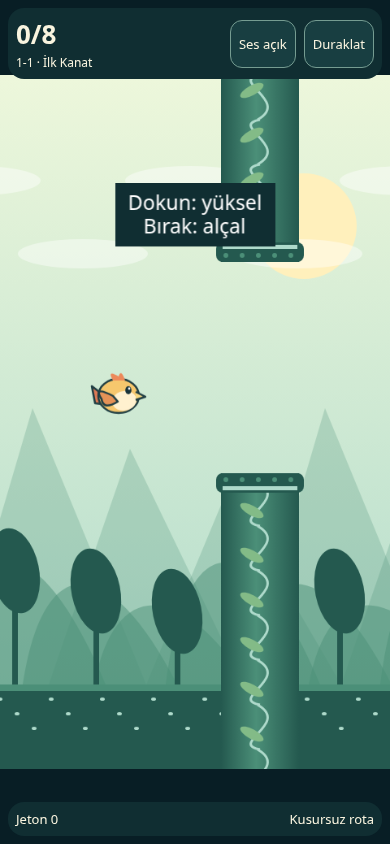
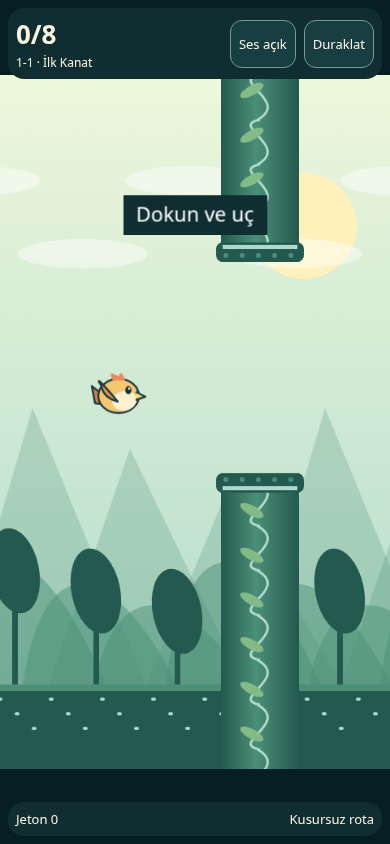
Polish Flappy Evolution interface and Phaser animations

Changed region(s): [[0.2769, 0.2156, 0.7077, 0.3081], [0.2462, 0.4313, 0.3077, 0.4929]]

diff --git a/flappy-evolution/src/game/scenes/PlayScene.ts b/flappy-evolution/src/game/scenes/PlayScene.ts
@@ -85,6 +85,8 @@ export class PlayScene extends Phaser.Scene {
     this.windTick = 6000;
     this.windRemaining = 0;
     this.lastHud = "";
+    this.trailMs = 0;
+    this.badge = undefined;
     this.director.reset();
     this.difficulty = this.profile(0);
     this.obstacles = new ObstacleSystem(this, this.level);
@@ -105,7 +107,7 @@ export class PlayScene extends Phaser.Scene {
         .setDepth(24);
     }
     this.status = this.add
-      .text(240, 172, "Dokun: yüksel\nBırak: alçal", {
+      .text(240, 172, "Dokun ve uç", {
         fontFamily: "system-ui",
         fontSize: "25px",
         color: "#ffffff",
@@ -214,6 +216,7 @@ export class PlayScene extends Phaser.Scene {
       this.bird.setGameplayGravity(true);
     } else if (this.phase !== "playing") return;
     this.bird.flap();
+    this.flapRipple();
     this.flapCount++;
     this.audioSystem.resume();
     this.audioSystem.flap();
@@ -231,9 +234,10 @@ export class PlayScene extends Phaser.Scene {
           this.phase = this.resumedPhase;
           this.physics.world.resume();
           this.tweens.resumeAll();
+          this.bird.anims.resume();
           this.status.setVisible(this.phase === "ready");
           if (this.phase === "ready")
-            this.status.setText("Dokun: yüksel\nBırak: alçal");
+            this.status.setText("Dokun ve uç");
           this.lastHud = "";
           this.refreshHud();
         }
@@ -284,6 +288,7 @@ export class PlayScene extends Phaser.Scene {
         ) {
           this.pickupCoins++;
           this.audioSystem.coin();
+          this.burst(p.coin.x, p.coin.y, 0xf4ca75, 8);
           p.coin.destroy();
           p.coin = undefined;
         }
@@ -293,6 +298,7 @@ export class PlayScene extends Phaser.Scene {
         this.passedGates++;
         this.score++;
         this.audioSystem.score();
+        this.burst(this.bird.x + 32, this.bird.y, 0xb9e6cf, 4);
         const distance = Math.abs(this.bird.y - p.currentCenter);
         if (distance > 40) this.allPassesCentered = false;
         if (p.currentGap * 0.5 - distance < 18) {
@@ -364,6 +370,31 @@ export class PlayScene extends Phaser.Scene {
       onComplete: () => p.destroy(),
     });
   }
+  // Effects use separate objects: Bird scale, origin and hitbox stay unchanged.
+  private flapRipple(): void {
+    if (this.reducedMotion()) return;
+    const ring = this.add.circle(this.bird.x - 12, this.bird.y + 10, 9)
+      .setStrokeStyle(2, 0xf9f4df, 0.65).setDepth(19);
+    this.tweens.add({
+      targets: ring, x: ring.x - 22, scale: 2.8, alpha: 0,
+      duration: 240, ease: "Sine.Out", onComplete: () => ring.destroy(),
+    });
+  }
+  private burst(x: number, y: number, color: number, count: number): void {
+    if (this.reducedMotion()) return;
+    for (let i = 0; i < count; i++) {
+      const angle = (i / count) * Math.PI * 2;
+      const radius = 22 + (i % 3) * 9;
+      const mote = this.add.circle(x, y, i % 2 ? 2 : 3, color).setDepth(35);
+      this.tweens.add({
+        targets: mote,
+        x: x + Math.cos(angle) * radius,
+        y: y + Math.sin(angle) * radius,
+        alpha: 0, scale: 0.25, duration: 380, ease: "Cubic.Out",
+        onComplete: () => mote.destroy(),
+      });
+    }
+  }
   private drawDebug(): void {
     this.debug.clear();
     if (!new URLSearchParams(location.search).has("debug")) return;
@@ -384,12 +415,13 @@ export class PlayScene extends Phaser.Scene {
     this.phase = "paused";
     this.physics.world.pause();
     this.tweens.pauseAll();
+    this.bird.anims.pause();
     this.audioSystem.stop();
     this.showPause();
   }
   private showPause(): void {
     panel(
-      `<p class="eyebrow">Bir nefes al</p><h1>Uçuş duraklatıldı</h1><p>Zaman ve rüzgâr seni bekliyor.</p>${button("resume", "Devam et", true)}${button("menu", "Menüye dön")}`,
+      `<h1>Duraklatıldı</h1>${button("resume", "Devam et", true)}${button("menu", "Menüye dön")}`,
       (a) => {
         if (a === "resume") {
           this.countdown = 3000;
@@ -406,6 +438,10 @@ export class PlayScene extends Phaser.Scene {
     this.phase = outcome;
     this.physics.world.pause();
     this.bird.kill();
+    if (!this.reducedMotion()) {
+      this.burst(this.bird.x, this.bird.y, outcome === "won" ? 0xf4ca75 : 0xf9f4df, 12);
+      if (outcome === "dead") this.cameras.main.shake(140, 0.004);
+    }
     this.windLabel.setVisible(false);
     this.audioSystem.stop();
     outcome === "won" ? this.audioSystem.unlock() : this.audioSystem.hit();
@@ -426,7 +462,7 @@ export class PlayScene extends Phaser.Scene {
     releaseRunLock(this.lockToken);
     this.phase = "results";
     panel(
-      `<p class="eyebrow">${this.level ? `${this.level.id} · ${this.level.name}` : "Sonsuz Uçuş"}</p><h1>${outcome === "won" ? "Kanatların güçlendi!" : "Bir uçuş daha?"}</h1><div class="stars" aria-label="${reward.stars} yıldız">${"★".repeat(reward.stars)}${"☆".repeat(3 - reward.stars)}</div><div class="result-stats"><strong>${this.score}<small>skor</small></strong><strong>+${reward.coins}<small>jeton</small></strong><strong>+${reward.xp}<small>XP</small></strong></div><p>${this.passedGates} geçiş · ${this.pickupCoins} fiziksel jeton · ${this.nearMisses} yakın geçiş</p>${this.level ? (outcome === "won" && this.level.id !== "4-5" ? button("next", "Sonraki bölüm", true) : "") : ""}${button("retry", "Tekrar dene", !this.level || outcome === "dead")}${button("menu", "Menüye dön")}<p class="notice">${save.sessionOnly ? "İlerleme bu oturumda saklanıyor" : "İlerleme bu tarayıcıda kaydedildi"}</p>`,
+      `<p class="eyebrow">${this.level ? `${this.level.id} · ${this.level.name}` : "Sonsuz Uçuş"}</p><h1>${outcome === "won" ? "Bölüm tamamlandı" : "Uçuş bitti"}</h1><div class="stars" aria-label="${reward.stars} yıldız">${"★".repeat(reward.stars)}${"☆".repeat(3 - reward.stars)}</div><div class="result-stats"><strong>${this.score}<small>skor</small></strong><strong>+${reward.coins}<small>jeton</small></strong><strong>+${reward.xp}<small>XP</small></strong></div><p>${this.passedGates} geçiş · ${this.pickupCoins} jeton · ${this.nearMisses} yakın geçiş</p>${this.level ? (outcome === "won" && this.level.id !== "4-5" ? button("next", "Sonraki bölüm", true) : "") : ""}${button("retry", "Tekrar dene", !this.level || outcome === "dead")}${button("menu", "Menüye dön")}<p class="notice">${save.sessionOnly ? "İlerleme bu oturumda saklanıyor" : ""}</p>`,
       (a) => {
         if (a === "retry") void startRun(this, this.request);
         else if (a === "next" && this.level) {

diff --git a/flappy-evolution/src/game/scenes/MenuScene.ts b/flappy-evolution/src/game/scenes/MenuScene.ts
@@ -17,7 +17,7 @@ export class MenuScene extends Phaser.Scene {
     });
   }
   private notice(): string {
-    return `<p class="notice" role="status">${save.forwardSchema ? "Bu kayıt daha yeni bir sürüme ait. İlerleme bu oturumda saklanıyor." : save.sessionOnly ? "İlerleme bu oturumda saklanıyor" : "İlerleme yalnız bu cihazda ve tarayıcıda saklanır."}</p>`;
+    return `<p class="notice" role="status">${save.forwardSchema ? "Bu kayıt daha yeni bir sürüme ait. İlerleme bu oturumda saklanıyor." : save.sessionOnly ? "İlerleme bu oturumda saklanıyor" : ""}</p>`;
   }
   public home(): void {
     const stars = Object.values(save.data.adventure.levels).reduce(
@@ -26,7 +26,7 @@ export class MenuScene extends Phaser.Scene {
       ),
       final = (save.data.adventure.levels["4-5"]?.bestStars ?? 0) > 0;
     panel(
-      `<div class="home-top"><span class="wordmark">${icon("wing")} FLAPPY EVOLUTION</span><span class="balance">${icon("coin")}${save.data.wallet.coins}</span></div><div class="hero-art"><div class="orbit orbit-one"></div><div class="orbit orbit-two"></div><img src="/icons/hero.svg" alt="Gökyüzünde kanat açan Kıvılcım" width="280" height="180"><span class="hero-tag">${evolution(save.data.xp)} · ${save.data.xp} XP</span></div><p class="eyebrow">Her uçuş yeni bir başlangıç</p><h1>Küçük kanatlar.<br><em>Büyük dünyalar.</em></h1><p class="intro">Ritmini bul. Ufku aş. Kendi yolunda evril.</p><div class="mode-cards"><button class="mode-card primary" data-action="adventure" aria-label="Macera">${icon("map")}<span><strong>Macera</strong><small>4 dünya · 20 bölüm · ${stars}/60 yıldız</small></span>${icon("arrow")}</button><button class="mode-card" data-action="endless" aria-label="Sonsuz Uçuş">${icon("infinity")}<span><strong>Sonsuz Uçuş</strong><small>Biraz daha ileri · Rekor ${save.data.endless.bestScore}</small></span>${icon("arrow")}</button></div><div class="grid menu-tools">${button("wardrobe", icon("hanger") + " Gardırop")}${button("settings", icon("settings") + " Ayarlar")}</div>${final ? '<p class="final-badge">Evrim Kapısı tamamlandı · Nova rozeti</p>' : ""}${this.notice()}<p id="offline-status" class="notice">İlk açılış için internet gerekir.</p><div id="update-slot"></div>`,
+      `<div class="home-top"><span class="wordmark">${icon("wing")} FLAPPY EVOLUTION</span><span class="balance">${icon("coin")}${save.data.wallet.coins}</span></div><div class="hero-art"><div class="orbit orbit-one"></div><div class="orbit orbit-two"></div><img src="/icons/hero.svg" alt="Gökyüzünde kanat açan Kıvılcım" width="280" height="180"><span class="hero-tag">${evolution(save.data.xp)} · ${save.data.xp} XP</span></div><h1 class="home-title">Uçuşa başla</h1><div class="mode-cards"><button class="mode-card primary" data-action="adventure" aria-label="Macera">${icon("map")}<span><strong>Macera</strong><small>${stars}/60 yıldız</small></span>${icon("arrow")}</button><button class="mode-card" data-action="endless" aria-label="Sonsuz Uçuş">${icon("infinity")}<span><strong>Sonsuz Uçuş</strong><small>Rekor ${save.data.endless.bestScore}</small></span>${icon("arrow")}</button></div><div class="grid menu-tools">${button("wardrobe", icon("hanger") + " Gardırop")}${button("settings", icon("settings") + " Ayarlar")}</div>${final ? '<p class="final-badge">Evrim Kapısı tamamlandı · Nova rozeti</p>' : ""}${this.notice()}<p id="offline-status" class="notice" role="status"></p><div id="update-slot"></div>`,
       (a) => {
         if (a === "adventure") this.scene.start("WorldMapScene");
         else if (a === "endless")
@@ -43,7 +43,7 @@ export class MenuScene extends Phaser.Scene {
   private wardrobe(message = ""): void {
     const inv = save.data.inventory;
     panel(
-      `<p class="eyebrow">${evolution(save.data.xp)} · ${save.data.xp} XP</p><h1>Senin kanatların</h1><p>Tüm görünümler aynı uçuşa ve çarpışma alanına sahip.</p><p role="status">${message}</p><h2>Karakterler</h2><div class="grid">${SKINS.map(
+      `<p class="eyebrow">${evolution(save.data.xp)} · ${save.data.xp} XP</p><h1>Gardırop</h1><p role="status">${message}</p><h2>Karakterler</h2><div class="grid">${SKINS.map(
         (id, i) => {
           const owned = inv.skins.includes(id),
             selected = inv.selectedSkin === id;
@@ -95,7 +95,7 @@ export class MenuScene extends Phaser.Scene {
   }
   private settings(): void {
     panel(
-      `<p class="eyebrow">Uçuş tercihlerin</p><h1>Kendi ritminde</h1><div class="settings-list">${button("sound", save.data.settings.sound ? "Ses: Açık" : "Ses: Kapalı")}<label for="motion">Dekoratif hareket</label><select id="motion"><option value="system" ${save.data.settings.reducedMotion === "system" ? "selected" : ""}>Sistem tercihi</option><option value="on" ${save.data.settings.reducedMotion === "on" ? "selected" : ""}>Azaltılmış</option><option value="off" ${save.data.settings.reducedMotion === "off" ? "selected" : ""}>Tam hareket</option></select><p>Engel hareketleri oyun kuralıdır; değişmez. Dekoratif paralaks ve izler azaltılır.</p>${button("fullscreen", "Tam ekranı dene")}<p>Dokun, Space veya yukarı ok: yüksel. Escape: duraklat. Sekmeden ayrılınca uçuş durur.</p><h2>Yerel rekorlar</h2><p>${save.data.endless.topScores.length ? save.data.endless.topScores.join(" · ") : "İlk rekorunu yazmak için Sonsuz Uçuş’a başla."}</p></div>${button("back", "Menüye dön", true)}${this.notice()}`,
+      `<h1>Ayarlar</h1><div class="settings-list">${button("sound", save.data.settings.sound ? "Ses: Açık" : "Ses: Kapalı")}<label for="motion">Dekoratif hareket</label><select id="motion"><option value="system" ${save.data.settings.reducedMotion === "system" ? "selected" : ""}>Sistem tercihi</option><option value="on" ${save.data.settings.reducedMotion === "on" ? "selected" : ""}>Azaltılmış</option><option value="off" ${save.data.settings.reducedMotion === "off" ? "selected" : ""}>Tam hareket</option></select>${button("fullscreen", "Tam ekranı dene")}<p>Dokun / Space / ↑: yüksel · Esc: duraklat</p><h2>Yerel rekorlar</h2><p>${save.data.endless.topScores.length ? save.data.endless.topScores.join(" · ") : "İlk rekorunu yazmak için Sonsuz Uçuş’a başla."}</p></div>${button("back", "Menüye dön", true)}${this.notice()}`,
       (a) => {
         if (a === "back") this.home();
         else if (a === "sound") {

diff --git a/flappy-evolution/src/game/entities/Bird.ts b/flappy-evolution/src/game/entities/Bird.ts
@@ -4,9 +4,7 @@ import { BIRD_GRAVITY, DEFAULT_FLAP_POWER } from "../constants";
 const FRAME_KEYS = ["bird-spark-0", "bird-spark-1", "bird-spark-2"];
 
 export class Bird extends Phaser.Physics.Arcade.Sprite {
-  private frameKeys = FRAME_KEYS;
-  private frameTimer = 0;
-  private frameIndex = 0;
+  private flightAnimation = "";
   private isAlive = true;
 
   public constructor(scene: Phaser.Scene, x: number, y: number) {
@@ -28,8 +26,16 @@ export class Bird extends Phaser.Physics.Arcade.Sprite {
   }
 
   public applyAppearance(id: string): void {
-    this.frameKeys = [0, 1, 2].map((frame) => `bird-${id}-${frame}`);
-    this.setTexture(this.frameKeys[this.frameIndex]);
+    this.flightAnimation = `flight-${id}`;
+    if (!this.scene.anims.exists(this.flightAnimation)) {
+      this.scene.anims.create({
+        key: this.flightAnimation,
+        frames: [2, 1, 0, 1].map((frame) => ({ key: `bird-${id}-${frame}` })),
+        frameRate: 1000 / 85,
+        repeat: -1,
+      });
+    }
+    this.play(this.flightAnimation);
   }
 
   public setGameplayGravity(enabled: boolean): void {
@@ -48,21 +54,11 @@ export class Bird extends Phaser.Physics.Arcade.Sprite {
 
     const body = this.body as Phaser.Physics.Arcade.Body;
     body.setVelocityY(-power);
-    this.frameTimer = 0;
-    this.frameIndex = 2;
-    this.setTexture(this.frameKeys[this.frameIndex]);
+    this.play(this.flightAnimation);
   }
 
-  public updateBird(deltaMs: number): void {
+  public updateBird(_deltaMs: number): void {
     const body = this.body as Phaser.Physics.Arcade.Body;
-    this.frameTimer += deltaMs;
-
-    if (this.frameTimer >= 85) {
-      this.frameTimer = 0;
-      this.frameIndex = (this.frameIndex + 1) % this.frameKeys.length;
-      this.setTexture(this.frameKeys[this.frameIndex]);
-    }
-
     const targetAngle = Phaser.Math.Clamp(body.velocity.y * 0.06, -24, 85);
     this.angle = Phaser.Math.Linear(this.angle, targetAngle, 0.15);
   }
@@ -79,6 +75,7 @@ export class Bird extends Phaser.Physics.Arcade.Sprite {
 
   public kill(): void {
     this.isAlive = false;
+    this.anims.stop();
   }
 
   public revive(): void {

diff --git a/flappy-evolution/e2e/motion.spec.ts b/flappy-evolution/e2e/motion.spec.ts
@@ -1,0 +1,37 @@
+import { test, expect } from "@playwright/test";
+
+test("flight animation freezes on pause; reduced motion suppresses effects without changing flap", async ({ page }) => {
+  await page.goto("/?canvas&timer");
+  await page.getByRole("button", { name: "Sonsuz Uçuş", exact: true }).click();
+  await page.waitForFunction(() => (window as any).flappyGame.scene.isActive("PlayScene"));
+  const report = await page.evaluate(() => {
+    const g = (window as any).flappyGame;
+    g.loop.sleep();
+    const s = g.scene.getScene("PlayScene");
+    const step = (n: number) => {
+      for (let i = 0; i < n; i++) g.headlessStep(i * 1000 / 60, 1000 / 60);
+    };
+    const texture = s.bird.texture.key;
+    step(6);
+    const animated = texture !== s.bird.texture.key;
+    s.pauseRun();
+    const frozenTexture = s.bird.texture.key;
+    step(20);
+    const frozen = frozenTexture === s.bird.texture.key;
+    // Resume the ready state through its normal countdown.
+    (document.querySelector('[data-action="resume"]') as HTMLButtonElement).click();
+    step(181);
+    const resumed = !s.bird.anims.isPaused;
+    const bounds = s.bird.getHitbox();
+    const count = s.tweens.getTweens().length;
+    s.reducedMotion = () => true;
+    s.flap();
+    return {
+      animated, frozen, resumed,
+      velocity: s.bird.getVelocityY(),
+      noEffects: s.tweens.getTweens().length === count,
+      sameBounds: s.bird.getHitbox().width === bounds.width && s.bird.getHitbox().height === bounds.height,
+    };
+  });
+  expect(report).toEqual({ animated: true, frozen: true, resumed: true, velocity: -430, noEffects: true, sameBounds: true });
+});

diff --git a/flappy-evolution/src/styles.css b/flappy-evolution/src/styles.css
@@ -427,3 +427,39 @@ section > h1 {
     font-size: 10px;
   }
 }
+
+/* Small transitions keep controls available immediately. */
+.panel section,
+.modal section {
+  animation: panel-in 220ms cubic-bezier(0.2, 0.7, 0.3, 1) both;
+}
+.home-title {
+  font-size: clamp(28px, 7vw, 36px);
+  margin: 18px 0 22px;
+  text-align: center;
+}
+.hero-art img {
+  animation: hero-float 3.2s ease-in-out infinite;
+  transform-origin: center;
+}
+.orbit-one {
+  animation: orbit-breathe 4s ease-in-out infinite;
+}
+.orbit-two {
+  animation: orbit-breathe 4s 1s ease-in-out infinite;
+}
+.notice:empty {
+  display: none;
+}
+@keyframes panel-in {
+  from { opacity: 0; transform: translateY(10px); }
+  to { opacity: 1; transform: translateY(0); }
+}
+@keyframes hero-float {
+  0%, 100% { transform: translateY(3px) rotate(-2deg); }
+  50% { transform: translateY(-7px) rotate(2deg); }
+}
+@keyframes orbit-breathe {
+  0%, 100% { opacity: 0.45; }
+  50% { opacity: 1; }
+}

diff --git a/flappy-evolution/src/game/scenes/WorldMapScene.ts b/flappy-evolution/src/game/scenes/WorldMapScene.ts
@@ -13,7 +13,7 @@ export class WorldMapScene extends Phaser.Scene {
       0,
     );
     panel(
-      `<header class="map-header"><p class="eyebrow">Macera · ${stars}/60 yıldız</p><h1>Ufkun ötesine</h1><p>Dört dünya. Yirmi yeni başlangıç.</p></header><div class="worlds">${WORLDS.map(
+      `<header class="map-header"><p class="eyebrow">Macera · ${stars}/60 yıldız</p><h1>Bölüm seç</h1></header><div class="worlds">${WORLDS.map(
         (name, i) =>
           `<article class="world world-${i + 1}"><p class="eyebrow">Dünya 0${i + 1}</p><h2>${name}</h2><div class="levels">${LEVELS.filter(
             (l) => l.world === i + 1,

diff --git a/flappy-evolution/src/pwa.ts b/flappy-evolution/src/pwa.ts
@@ -8,8 +8,8 @@ export function installPwa(isMenu: () => boolean): void {
     const status = document.querySelector("#offline-status");
     if (status)
       status.textContent = ready
-        ? "Çevrimdışı hazır · İki mod da yanında"
-        : "İlk açılış için internet gerekir. Offline dosyaları hazırlanıyor.";
+        ? "Çevrimdışı hazır"
+        : "Çevrimdışı hazırlanıyor…";
     const slot = document.querySelector("#update-slot");
     if (slot) {
       slot.innerHTML = registration?.waiting

diff --git a/flappy-evolution/docs/animation-update.md b/flappy-evolution/docs/animation-update.md
@@ -1,0 +1,19 @@
+# Animation and interface update
+
+Phaser 3.90.0 was already pinned in the project. Installed with Node 22 and Yarn 1.22.22 using the existing frozen lockfile; no motor upgrade or new runtime dependency.
+
+Reviewed repositories:
+- [phaserjs/phaser, v3.90.0 TweenManager](https://github.com/phaserjs/phaser/blob/v3.90.0/src/tweens/TweenManager.js): scene-owned tweens, easing and completion cleanup for transient feedback objects.
+- [phaserjs/examples, legacy 3.86 animation example](https://github.com/phaserjs/examples/blob/master/public/3.86/src/animation/create%20animation%20from%20sprite%20sheet.js): native repeating animation configuration. Uses existing locally generated bird textures, not the example's assets or CDN.
+
+Changes:
+- Replaced the manual wing timer with native Phaser animation, four-step raised/down/raised cycle using the original three textures at 85ms per frame. A flap restarts the cycle. Pause and death freeze the animation.
+- Added short-lived flap rings and radial coin/gate feedback using separate tweened objects. Death has a brief reduced-motion-aware camera shake. Bird scale, origin, bounds calculation, gravity and flap velocity remain unchanged.
+- Added gentle menu illustration movement, breathing orbits and short panel transitions. Existing system and stored reduced-motion rules disable these decorative effects.
+- Removed home/map slogans, redundant storage success messages and verbose descriptions. Kept storage failure warnings, locked-level reasons, controls and offline readiness.
+
+Validation (local Chromium, Node 22): 28 unit tests passed; existing 9 browser tests passed, including fixed-input physics baseline and five viewport sizes; new motion regression passed (pause/resume, reduced-motion effects, unchanged flap velocity/bounds). Typecheck and production build passed. These automated checks do not establish subjective animation quality on physical mobile devices.
+
+Production offline check also passed: offline reload, adventure completion, saved unlock and endless retry, with no external requests or browser errors.
+
+No deployment performed. Adjacent dashboard application unchanged.

diff --git a/flappy-evolution/design-system/MASTER.md b/flappy-evolution/design-system/MASTER.md
@@ -12,5 +12,5 @@ One primary action per panel. Results show stars, earned coins, XP and gate/phys
 Shell respects safe-area and 100dvh, 480×854 FIT game space. Landscape letterboxing; no forced zoom restriction. Fullscreen/orientation user-initiated and optional.
 
 ## Motion/audio
-Three-frame 85ms bird texture animation retained. Cosmetic XP ring and trails never alter Bird bounds. Reduced motion uses stored system/on/off setting and disables decorative parallax/trails; gameplay obstacle motion remains. Mute persists, gains disconnected on scene shutdown, oscillators stopped on pause and finish.
+Phaser AnimationManager plays the original three textures in a four-step 2→1→0→1 wing cycle at 85ms per frame; each flap restarts at the raised wing. Pause freezes the animation and collision stops it. Separate short-lived tween objects provide flap rings and reward bursts without scaling or moving the Bird. Cosmetic XP ring and trails never alter Bird bounds. Reduced motion uses stored system/on/off setting and disables decorative parallax/trails/rings/bursts/camera shake and CSS transitions; gameplay obstacle motion remains. Mute persists, gains disconnected on scene shutdown, oscillators stopped on pause and finish.
 Real-time gameplay screen-reader equivalence is not claimed. Menus, instructions, results and control names are semantic HTML.
